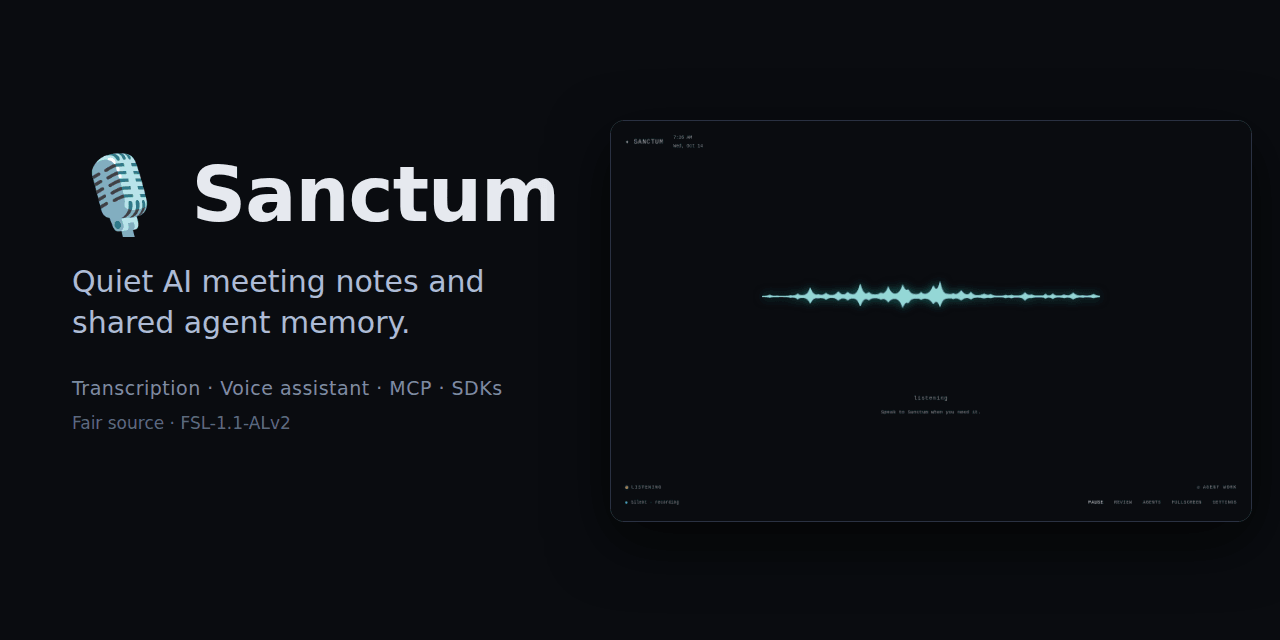
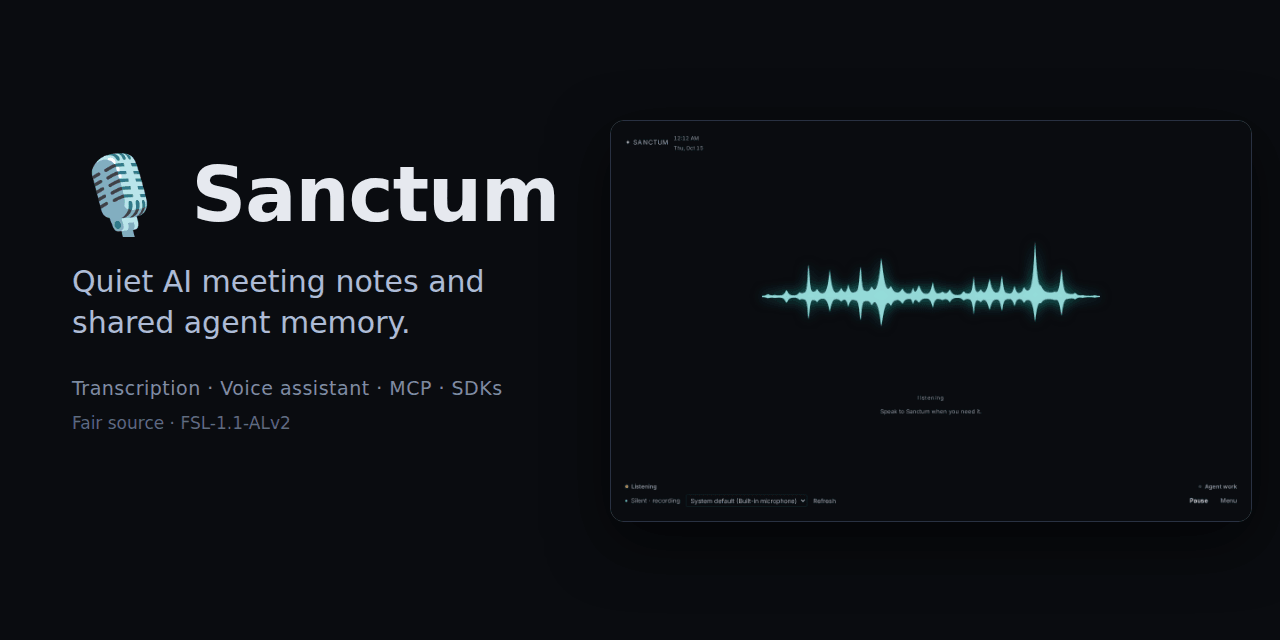
docs: refresh README hero and social preview
Closes #159

diff --git a/README.md b/README.md
@@ -13,7 +13,7 @@
 
 [Try it](https://sanctum.42nights.dev) · [Self-host](#self-host) · [Docs](https://i098.github.io/sanctum/) · [Changelog](CHANGELOG.md) · [Contribute](CONTRIBUTING.md)
 
-<img src=".github/assets/listen.png" alt="The Sanctum Listen screen while recording: a lively teal waveform on a dark background, with Pause, Review, Agents, Fullscreen and Settings at the bottom">
+<img src=".github/assets/listen.png" alt="The Sanctum Listen screen while recording: a lively teal waveform on a dark background, a microphone chip at the bottom left, and Pause and Menu at the bottom right">
 
 *The Listen screen while recording: fullscreen and silent, with the waveform following the live microphone.*
 
